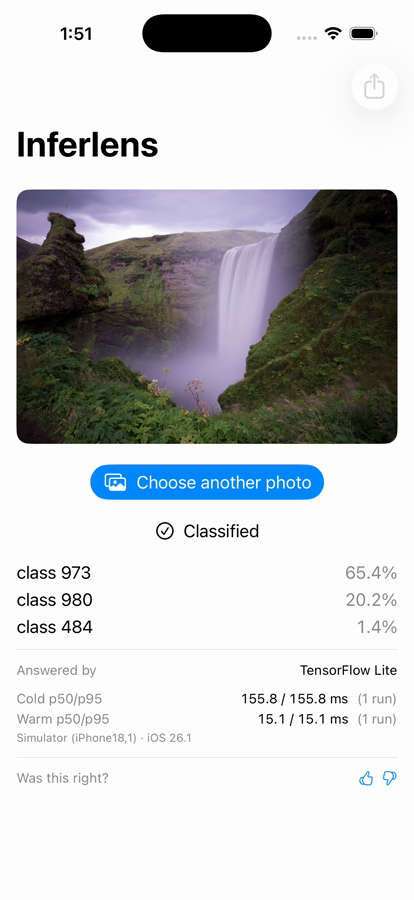
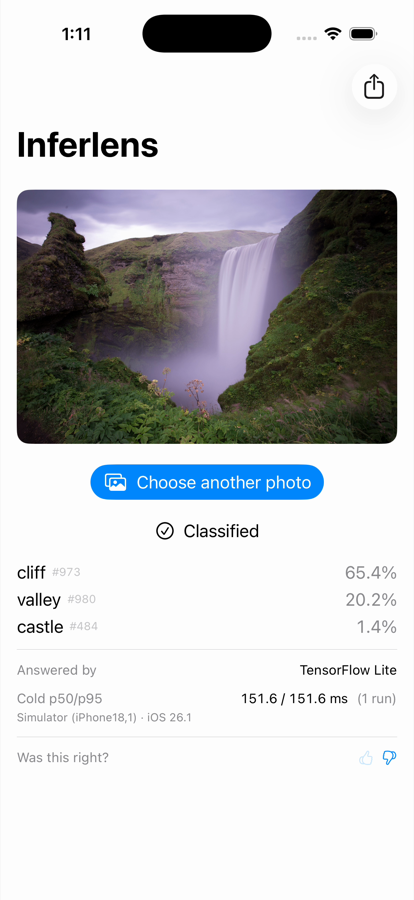
docs(readme): the take is re-recorded, and the result on screen is a word
The demo on this page was shot before labels landed: its result screen read
`class 973`, which is exactly the number rung 38 replaced. The media is
re-recorded against the tip rather than captioned around.

One uninterrupted 42.7 s take on the pinned iPhone 17 Pro simulator (iOS 26.1),
view code `ac8d402`: launch, classify, thumbs, a second photo, export. Taps are
posted by a scripted pointer — disclosed in the caption and in the release
notes, because a viewer can see the pacing is even — and the take is uncut. Five
earlier attempts were discarded whole, each followed by an uninstall/reinstall,
so the exported rows are the final take's own and nothing else's.

Every number here is measured from the new file, not carried over: 42.7 s and
576 frames from ffprobe, the poster re-extracted at 16.0 s and downscaled to
414x900 (232,871 bytes, inside the 250,000-byte per-file ceiling — the 900px
precedent), its provenance rewritten by hand beside it because the render test
rewrites capture-manifest.txt wholesale. The inline preview is the same take
re-encoded under GitHub's 10 MB ceiling: 576 frames in, 576 frames out, zero
non-monotonic warnings, encoded at the new source's own 1/600 timebase, and its
served bytes were fetched anonymously and hashed against the local file before
the URL entered this page.

The export claim is checked against the old file rather than assumed: the
previous release's LiteRT row reads `"label": "class 973"`, this one reads
[…]

diff --git a/README.md b/README.md
@@ -30,27 +30,34 @@ so a `CI | passing` badge would imply coverage that does not exist.*
 
 ## See it run
 
-Thirty seconds, one take, no cuts: launch, classify, thumbs, a second photo, export.
+Forty-three seconds, one take, no cuts: launch, classify, thumbs, a second photo, export.
 
-https://github.com/user-attachments/assets/05796cd4-0c9f-490e-ba37-d4111702110c
+https://github.com/user-attachments/assets/384752bb-9392-4903-83ae-7f1c339580f7
 
-*The player above is a compressed preview: the same 29.8 s take, re-encoded to fit GitHub's 10 MB
-inline ceiling — compressed, never cut (frame count and duration match the take). A preview
-carries no claim; the artifact of record is the release, one line below — the full take, and
-[the preview's own bytes](https://github.com/sebkoo/inferlens/releases/download/demo-sim-b1c8fbe/inferlens-shell-demo-preview.mp4)
+*The player above is a compressed preview: the same 42.7 s take, re-encoded to fit GitHub's 10 MB
+inline ceiling — compressed, never cut (576 frames in, 576 frames out; the duration matches). A
+preview carries no claim; the artifact of record is the release, one line below — the full take,
+and
+[the preview's own bytes](https://github.com/sebkoo/inferlens/releases/download/demo-sim-ac8d402/inferlens-shell-demo-preview.mp4)
 mirrored beside it, each with a sha256 digest recorded per asset on the release.*
 
-<a href="https://github.com/sebkoo/inferlens/releases/download/demo-sim-b1c8fbe/inferlens-shell-demo.mp4"><img src="docs/media/demo-poster.png" width="300" alt="The running app showing a classified waterfall photo: three class labels with confidence, answered by TensorFlow Lite, cold and warm p50/p95 in milliseconds, and the line Simulator (iPhone18,1) · iOS 26.1 — a frame of the 30-second demo recording; the image links to the video."></a>
+<a href="https://github.com/sebkoo/inferlens/releases/download/demo-sim-ac8d402/inferlens-shell-demo.mp4"><img src="docs/media/demo-poster.png" width="300" alt="The running app showing a classified waterfall photo: the words cliff, valley and castle, each with the model's output index beside it — 973, 980, 484 — and confidences of 65.4, 20.2 and 1.4 percent; answered by TensorFlow Lite; cold p50/p95 151.6 / 151.6 ms over 1 run; the line Simulator (iPhone18,1) · iOS 26.1; and an unselected thumbs row reading Was this right? — a frame of the 43-second demo recording; the image links to the video."></a>
 
 *A frame of
-[the 30-second recording](https://github.com/sebkoo/inferlens/releases/download/demo-sim-b1c8fbe/inferlens-shell-demo.mp4)
+[the 43-second recording](https://github.com/sebkoo/inferlens/releases/download/demo-sim-ac8d402/inferlens-shell-demo.mp4)
 — real runs through the installed app on the pinned simulator, one uninterrupted take: launch →
 classify → thumbs → a second photo → export, the NDJSON leaving through the share sheet
-([the exported rows](https://github.com/sebkoo/inferlens/releases/download/demo-sim-b1c8fbe/exported-runs.ndjson)).
-This is the first media on this page **not** rendered from fabricated values: an engine ran, and the
-rows it wrote are in that export. iPhone 17 Pro simulator (iPhone18,1), iOS 26.1, view code at
-`b1c8fbe`. Every number in the frame is a simulator number and its own row says so — no device has
-been measured, and the [comparison table](#core-ml-vs-tensorflow-lite-on-ios-which-is-actually-faster)
+([the exported rows](https://github.com/sebkoo/inferlens/releases/download/demo-sim-ac8d402/exported-runs.ndjson)).
+The taps are posted by a scripted pointer, which is why the pacing is even; the take itself is
+uninterrupted and uncut. This is the first media on this page **not** rendered from fabricated
+values: an engine ran, and the rows it wrote are in that export — two of them, one cold and one
+warm, and the first carries the thumbs-up pressed on screen. It is also the first take in which the
+result is a **word**: where the screen used to read `class 973` it reads `cliff` with `#973` beside
+it, and the exported row reads `cliff, drop, drop-off` where the previous export read `class 973`
+([ADR-0012](docs/adr/0012-label-table-provenance.md)). iPhone 17 Pro simulator (iPhone18,1),
+iOS 26.1, view code at `ac8d402`. Every number in the frame is a simulator number and its own row
+says so — no device has been measured, and the
+[comparison table](#core-ml-vs-tensorflow-lite-on-ios-which-is-actually-faster)
 below stays empty until one has ([Limitations](#limitations)). The video and the rows are release
 assets, never tracked ([ADR-0007](docs/adr/0007-readme-media.md)); the poster's provenance is
 [recorded beside it](docs/media/demo-poster-provenance.txt).*